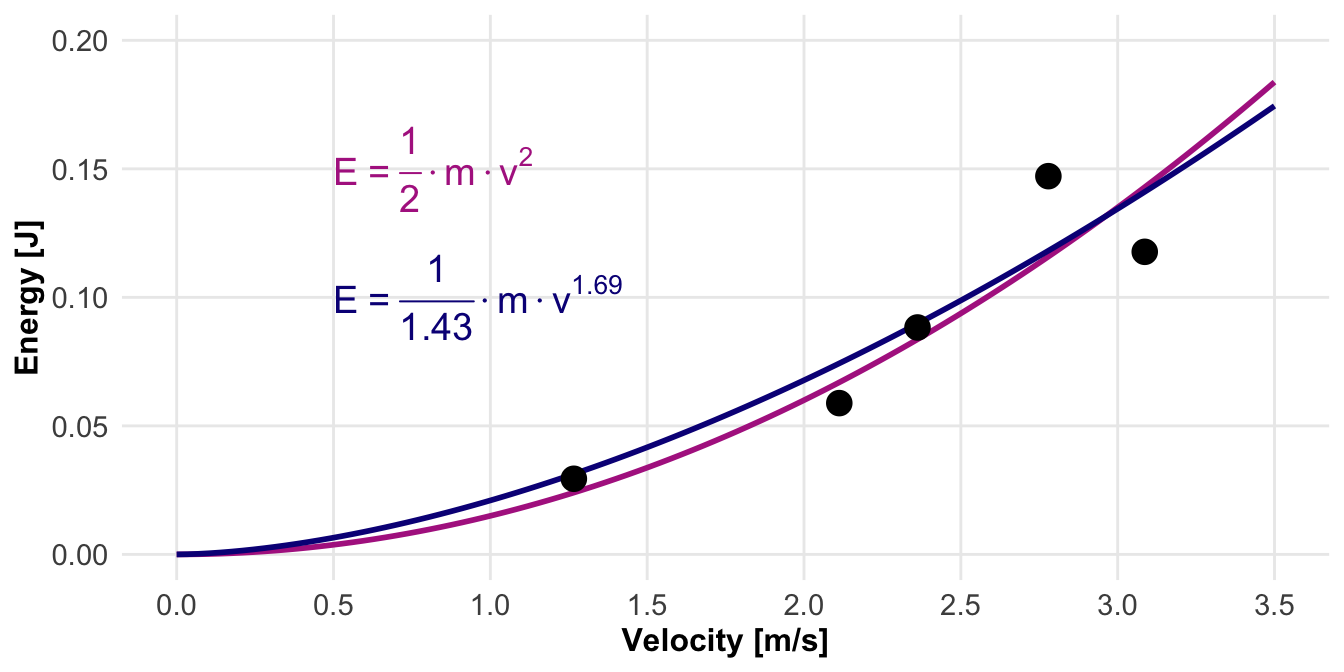
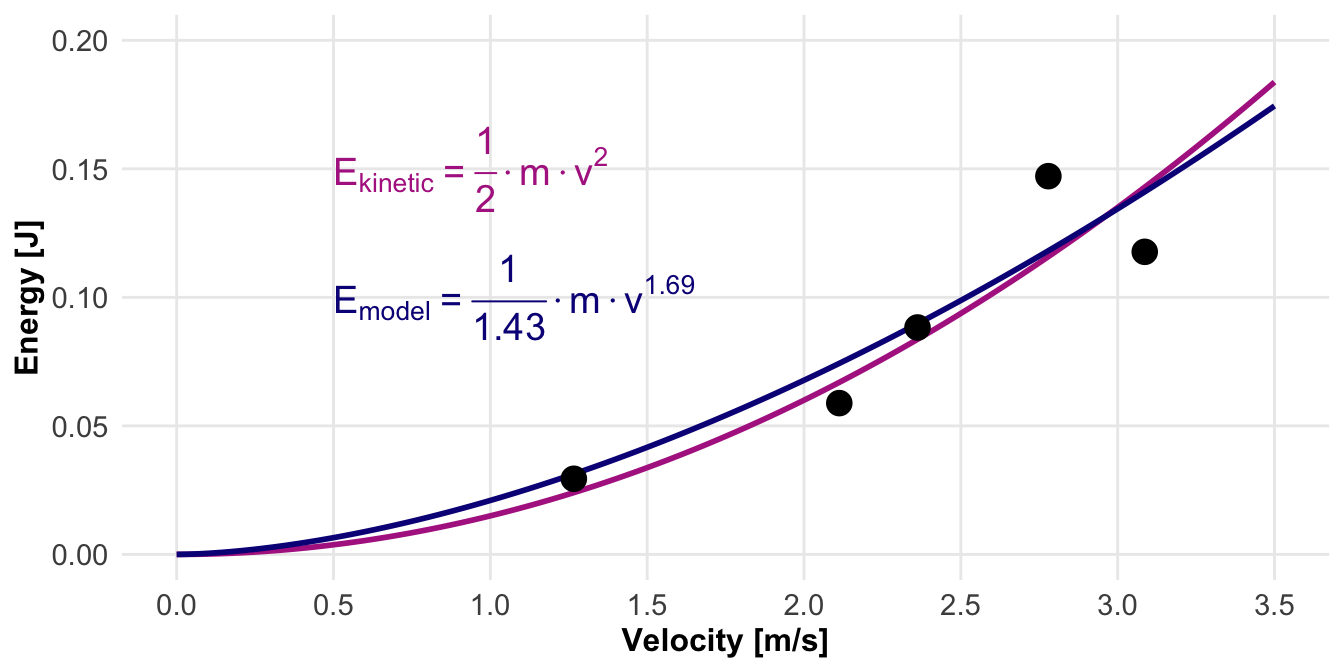
added

diff --git a/docs/chapter-01-what-is-science.html b/docs/chapter-01-what-is-science.html
@@ -448,7 +448,7 @@ window.Quarto = {
 </header>
 
 
-<p><em>Last modified on 18. January 2026 at 07:37:21</em></p>
+<p><em>Last modified on 18. January 2026 at 07:40:53</em></p>
 <blockquote class="blockquote">
 <p><em>“Reality is negotiable.” — Tim Ferriss</em></p>
 </blockquote>
@@ -1403,9 +1403,9 @@ Figure&nbsp;1.5: fooo.
 <span id="cb1-188"><a href="#cb1-188" aria-hidden="true" tabindex="-1"></a>  <span class="fu">geom_point</span>(<span class="at">size =</span> <span class="dv">4</span>) <span class="sc">+</span></span>
 <span id="cb1-189"><a href="#cb1-189" aria-hidden="true" tabindex="-1"></a>  <span class="fu">labs</span>(<span class="at">x =</span> <span class="st">"Velocity [m/s]"</span>, <span class="at">y =</span> <span class="st">"Energy [J]"</span>) <span class="sc">+</span></span>
 <span id="cb1-190"><a href="#cb1-190" aria-hidden="true" tabindex="-1"></a>  <span class="fu">annotate</span>(<span class="st">"text"</span>, <span class="at">hjust =</span> <span class="st">"left"</span>, <span class="at">x =</span> <span class="fl">0.5</span>, <span class="at">y =</span> <span class="fl">0.15</span>, <span class="at">size =</span> <span class="dv">5</span>,</span>
-<span id="cb1-191"><a href="#cb1-191" aria-hidden="true" tabindex="-1"></a>           <span class="at">label =</span> <span class="fu">expression</span>(<span class="st">"E"</span><span class="sc">~</span><span class="st">"="</span><span class="sc">~</span><span class="fu">frac</span>(<span class="dv">1</span>, <span class="dv">2</span>) <span class="sc">%.%</span> m <span class="sc">%.%</span> v<span class="sc">^</span><span class="dv">2</span>), <span class="at">color =</span> <span class="st">"#B12A90FF"</span>) <span class="sc">+</span></span>
+<span id="cb1-191"><a href="#cb1-191" aria-hidden="true" tabindex="-1"></a>           <span class="at">label =</span> <span class="fu">expression</span>(<span class="st">"E"</span>[kinetic]<span class="sc">~</span><span class="st">"="</span><span class="sc">~</span><span class="fu">frac</span>(<span class="dv">1</span>, <span class="dv">2</span>) <span class="sc">%.%</span> m <span class="sc">%.%</span> v<span class="sc">^</span><span class="dv">2</span>), <span class="at">color =</span> <span class="st">"#B12A90FF"</span>) <span class="sc">+</span></span>
 <span id="cb1-192"><a href="#cb1-192" aria-hidden="true" tabindex="-1"></a>  <span class="fu">annotate</span>(<span class="st">"text"</span>, <span class="at">hjust =</span> <span class="st">"left"</span>, <span class="at">x =</span> <span class="fl">0.5</span>, <span class="at">y =</span> <span class="fl">0.1</span>, <span class="at">size =</span> <span class="dv">5</span>,</span>
-<span id="cb1-193"><a href="#cb1-193" aria-hidden="true" tabindex="-1"></a>           <span class="at">label =</span> <span class="fu">expression</span>(<span class="st">"E"</span><span class="sc">~</span><span class="st">"="</span><span class="sc">~</span><span class="fu">frac</span>(<span class="dv">1</span>, <span class="fl">1.43</span>) <span class="sc">%.%</span> m <span class="sc">%.%</span> v<span class="sc">^</span><span class="fl">1.69</span>), </span>
+<span id="cb1-193"><a href="#cb1-193" aria-hidden="true" tabindex="-1"></a>           <span class="at">label =</span> <span class="fu">expression</span>(<span class="st">"E"</span>[model]<span class="sc">~</span><span class="st">"="</span><span class="sc">~</span><span class="fu">frac</span>(<span class="dv">1</span>, <span class="fl">1.43</span>) <span class="sc">%.%</span> m <span class="sc">%.%</span> v<span class="sc">^</span><span class="fl">1.69</span>), </span>
 <span id="cb1-194"><a href="#cb1-194" aria-hidden="true" tabindex="-1"></a>           <span class="at">color =</span> <span class="st">"#0D0887FF"</span>)</span>
 <span id="cb1-195"><a href="#cb1-195" aria-hidden="true" tabindex="-1"></a><span class="in">```</span></span>
 <span id="cb1-196"><a href="#cb1-196" aria-hidden="true" tabindex="-1"></a></span>
